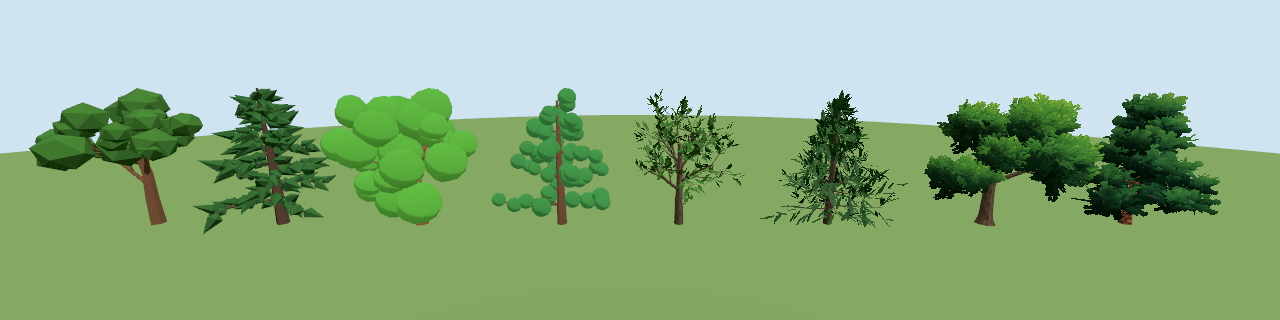
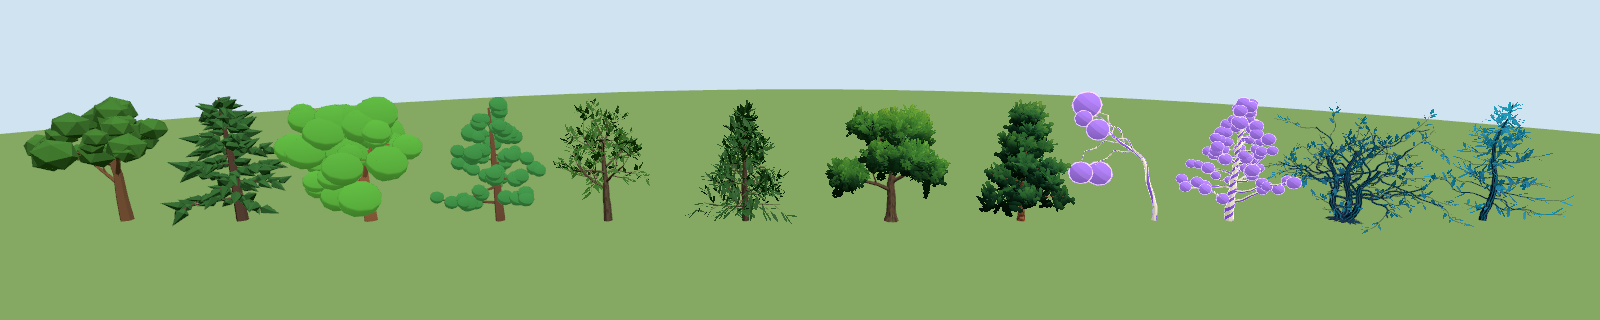
readme-media: styles image with all six Styles, Fantasy Styles hero (Whimsical by day, Enchanted Forest at night with bloom); README_MEDIA_PORT (#144)

Changed region(s): [[0.0, 0.2812, 1.0, 0.7188]]

diff --git a/scripts/readme-media/main.ts b/scripts/readme-media/main.ts
@@ -3,6 +3,7 @@
 //   ?shot=<name>  which scene (see SHOTS below)
 //   ?backend=webgl  force WebGPURenderer's WebGL2 fallback
 //   ?effects=0|1  the 'effects' shot without / with the Style's suggested Tree Effects
+//   ?part=day|night  the 'fantasy' shot: a Whimsical grove by day / an Enchanted Forest at night
 // The page exposes window.readmeShot: once status is 'ready', `frames` is the number of frames and
 // `show(i)` sets up and draws frame i (a still has one frame).
 import * as THREE from 'three/webgpu';
@@ -19,10 +20,13 @@ import {
   type TreeDefinitionInput,
 } from '@casmo/tree.js';
 import { createTreeEffects, SUGGESTED_TREE_EFFECTS } from '@casmo/tree.js/effects';
+import { createScenePipeline } from '@casmo/tree.js/scene';
 import lowPoly from '@casmo/tree.js/styles/low-poly';
 import stylized from '@casmo/tree.js/styles/stylized';
 import realistic from '@casmo/tree.js/styles/realistic';
 import painterly from '@casmo/tree.js/styles/painterly';
+import whimsical from '@casmo/tree.js/styles/whimsical';
+import enchanted from '@casmo/tree.js/styles/enchanted';
 import { framingBox } from '../../examples/framing';
 import { EXTREME_CORKSCREW, followTwistTree, TWIST_STYLE_TREES } from './twist-trees';
 
@@ -162,23 +166,62 @@ const SHOTS: Record<string, (stage: Stage) => Promise<Shot>> = {
     return { frames: 1 };
   },
 
-  /** Styles: low-poly, stylized, realistic and painterly, broadleaf and conifer each (scaled to one height). */
+  /** Styles: all six, broadleaf and conifer each (scaled to one height). The Wind clock is pinned (Inner Glow pulse). */
   async styles({ scene, camera }) {
-    const trees = [
-      createTree(lowPoly.broadleaf, { seed: 1, season: 0.37 }),
-      createTree(lowPoly.conifer, { seed: 1, season: 0.37 }),
-      createTree(stylized.broadleaf, { seed: 1, season: 0.37 }),
-      createTree(stylized.conifer, { seed: 1, season: 0.37 }),
-      createTree(realistic.broadleaf, { seed: 1, season: 0.37 }),
-      createTree(realistic.conifer, { seed: 1, season: 0.37 }),
-      createTree(painterly.broadleaf, { seed: 1, season: 0.37 }),
-      createTree(painterly.conifer, { seed: 1, season: 0.37 }),
-    ];
+    const styles = [lowPoly, stylized, realistic, painterly, whimsical, enchanted];
+    const trees = styles.flatMap((style) => [createTree(style.broadleaf, { seed: 1, season: 0.37 }), createTree(style.conifer, { seed: 1, season: 0.37 })]);
     await Promise.all(trees.map((tree) => tree.ready));
     scene.add(...trees);
-    ground({ scene } as Stage, 60);
-    frame(camera, lineUp(trees, 0.8, 6), 1.12, new THREE.Vector3(0, 0.2, 1).normalize());
+    ground({ scene } as Stage, 80);
+    narrow(camera, 30);
+    frame(camera, lineUp(trees, 0.8, 6), 1.08, new THREE.Vector3(0, 0.2, 1).normalize());
     return { frames: 1 };
+  },
+
+  /**
+   * Fantasy Styles (captured twice, side by side): a Whimsical grove by day (?part=day) with its suggested Tree
+   * Effects (its pastel Scene Effects would wash out the candy colours in a small picture), and an Enchanted Forest
+   * at night (?part=night: no sun, a faint cool sky light) through the Scene Pipeline with its suggested Tree
+   * Effects and Scene Effects (the bloom makes the Inner Glow shine). The Wind clock stays at 0 (pulse pinned).
+   */
+  async fantasy({ scene, camera, renderer }) {
+    const night = params.get('part') === 'night';
+    const style = night ? enchanted : whimsical;
+    const placements = grid(night ? 36 : 25, night ? 11 : 7, night ? 11 : 5);
+    const forests = [
+      createForest(style.broadleaf, placements.filter((_, i) => i % 3 !== 0), { variants: 5, seed: 1, season: 0.37 }),
+      createForest(style.conifer, placements.filter((_, i) => i % 3 === 0), { variants: 3, seed: 2, season: 0.37 }),
+    ];
+    await Promise.all(forests.map((forest) => forest.ready));
+    scene.add(...forests);
+    const plane = new THREE.Mesh(
+      new THREE.CircleGeometry(160, 64).rotateX(-Math.PI / 2),
+      new THREE.MeshStandardNodeMaterial({ color: night ? '#1c2030' : '#9ccf72' }),
+    );
+    scene.add(plane);
+    if (night) {
+      scene.background = new THREE.Color('#0b0a1c');
+      for (const light of scene.children.filter((child) => child instanceof THREE.Light)) {
+        (light as THREE.Light).intensity = light instanceof THREE.HemisphereLight ? 0.12 : 0;
+      }
+    } else {
+      scene.background = new THREE.Color('#9fd8f2');
+    }
+    camera.far = 400;
+    camera.position.set(night ? -8 : -4, night ? 4 : 3.5, night ? 46 : 28);
+    camera.lookAt(0, night ? 7 : 5, 0);
+    camera.updateProjectionMatrix();
+    const pipeline = createScenePipeline(renderer, scene, camera, night ? { style: 'enchanted' } : { style: 'whimsical', sceneEffects: null });
+    return {
+      frames: 1,
+      async render() {
+        // The pipeline builds its passes on first use: draw a few frames.
+        for (let i = 0; i < 4; i++) {
+          pipeline.render();
+          await new Promise(requestAnimationFrame);
+        }
+      },
+    };
   },
 
   /** Tree Definitions and Seeds: the README's birch, five Seeds. */
